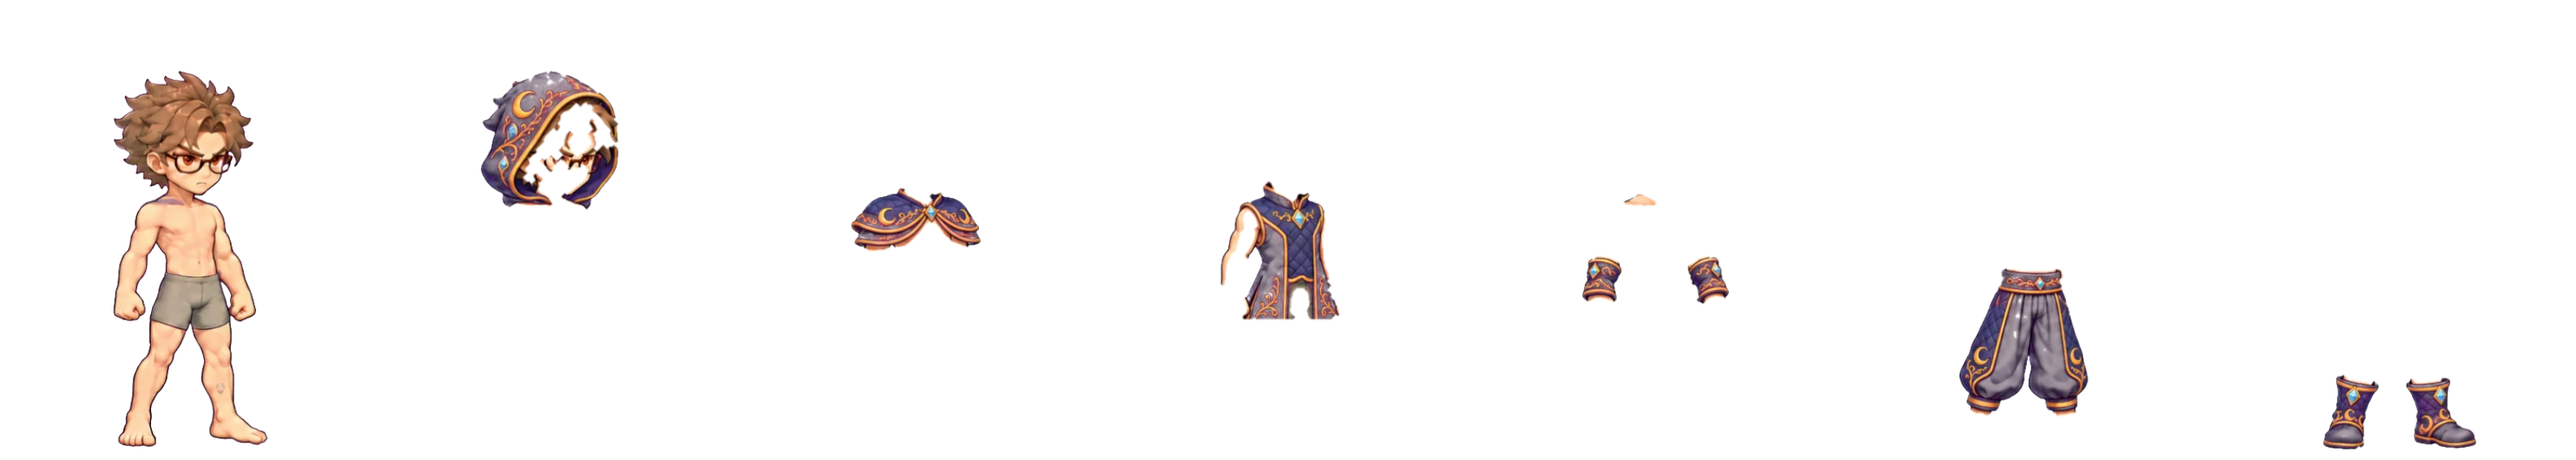
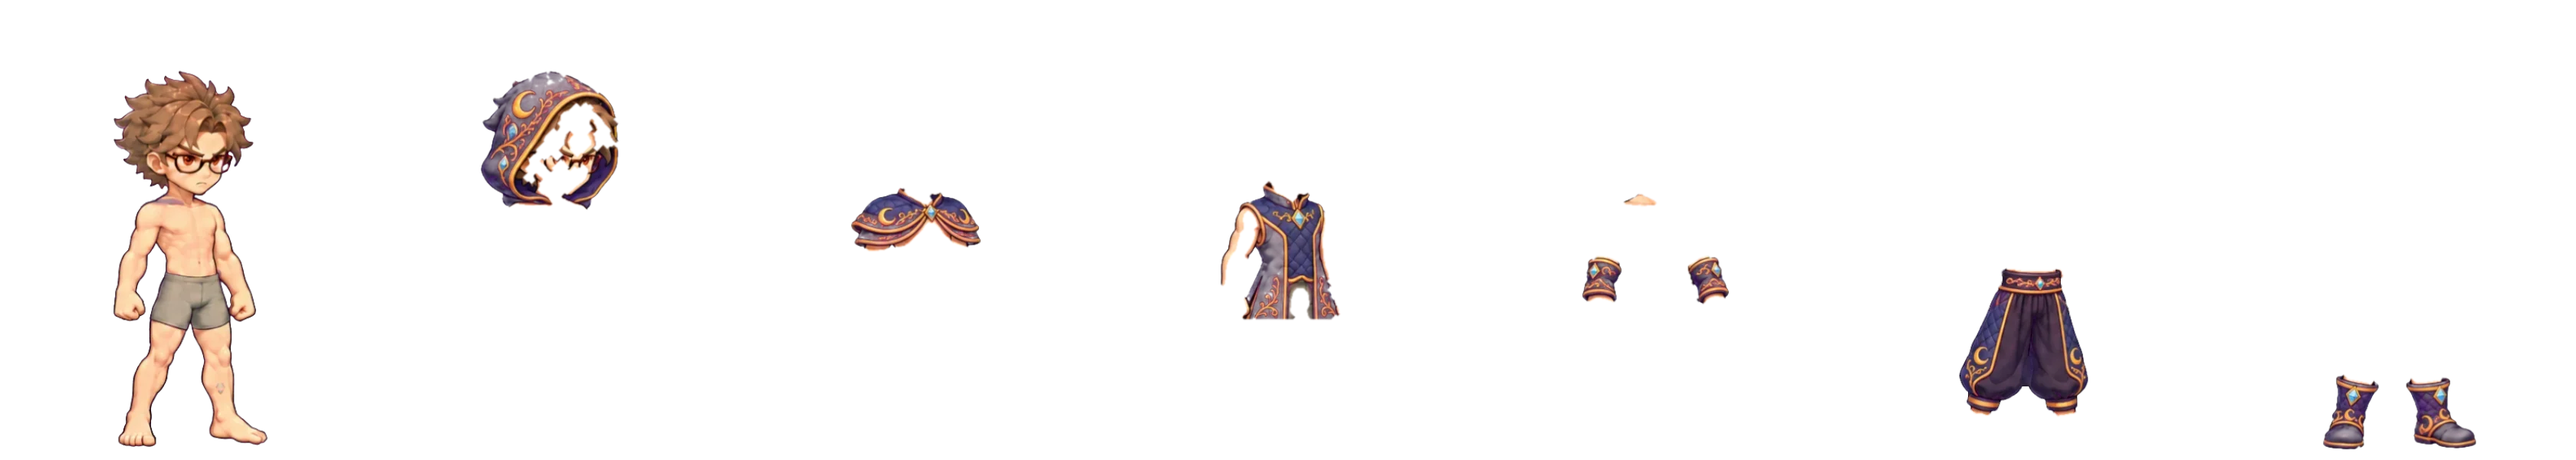
v1.16: paczka 45 – 8 kompletów dla Uczonej (bez broni); poprawione prześwitujące spodnie Arcymaga
Claude-Session: https://claude.ai/code/session_01GEbC5QhUPXkMWE4U6CsBAf

Changed region(s): [[0.75, 0.57, 0.8125, 0.87]]

diff --git a/index.html b/index.html
@@ -398,7 +398,7 @@ body.play .orb{display:block}#orbL{left:-12px}#orbR{right:-12px}
   <div class="row"><button id="close">Zamknij</button><button id="reset">Nowy świat</button></div>
 </div>
 
-<script id="gbd">const GBD={"pm":{"f_athlete":{"bow":["arcymag","cien","krew","lowca","smok","swit","tytan","zywioly"],"halberd":[],"2axe":[],"2dagger":[],"2sword":[],"axe":[],"dagger":[],"none":["arcymag","cien","krew","lowca","smok","swit","tytan","zywioly"],"sd":[],"sword":[]},"f_hunter":{"bow":["arcymag","cien","krew","lowca","smok","swit","tytan","zywioly"],"2dagger":[],"2sword":[],"dagger":[],"none":["arcymag","cien","krew","lowca","smok","swit","tytan","zywioly"],"sd":[],"sword":[]},"f_necro":{"dagger_skull":[],"wand":[],"wand_skull":[],"2dagger":[],"dagger":[],"none":[],"staff":[]},"f_paladin":{"2buzdygan":[],"axe_shield":[],"buzdygan":[],"buzdygan_shield":[],"halberd":["arcymag","cien","krew","lowca","smok","swit","tytan","zywioly"],"mace_book":[],"mace_shield":[],"sword_shield":["arcymag","cien","krew","lowca","smok","swit","tytan","zywioly"],"buzdygan_book":[],"sword_book":[],"none":["arcymag","cien","krew","lowca","smok","swit","tytan","zywioly"]},"f_scholar":{"wand":[],"wand_book":[],"2dagger":[],"dagger":[],"none":[],"staff":[],"dagger_book":[]},"f_strong":{"2buzdygan":[],"axe_shield":[],"buzdygan":[],"buzdygan_shield":[],"halberd":[],"mace_shield":[],"sword_shield":["arcymag","cien","krew","lowca","smok","swit","tytan","zywioly"],"2axe":[],"2mace":[],"2sword":[],"axe":[],"hammer2h":[],"mace":[],"none":["arcymag","cien","krew","lowca","smok","swit","tytan","zywioly"],"sword":[]},"m_athlete":{"bow":["arcymag","cien","krew","lowca","smok","swit","tytan","zywioly"],"halberd":[],"2axe":[],"2dagger":[],"2sword":[],"axe":[],"dagger":[],"none":["arcymag","cien","krew","lowca","smok","swit","tytan","zywioly"],"sd":[],"sword":[]},"m_hunter":{"bow":["arcymag","cien","krew","lowca","smok","swit","tytan","zywioly"],"2dagger":[],"2sword":[],"dagger":[],"none":["arcymag","cien","krew","lowca","smok","swit","tytan","zywioly"],"sd":[],"sword":[]},"m_necro":{"dagger_skull":[],"wand":[],"wand_skull":[],"2dagger":[],"dagger":[],"none":[],"staff":[]},"m_paladin":{"2buzdygan":[],"axe_shield":[],"buzdygan":[],"buzdygan_shield":[],"halberd":[],"mace_book":[],"mace_shield":[],"sword_shield":["arcymag","cien","krew","lowca","smok","swit","tytan","zywioly"],"buzdygan_book":[],"sword_book":[]},"m_scholar":{"wand":[],"wand_book":[],"2dagger":[],"dagger":[],"none":["arcymag","cien","krew","lowca","smok","swit","tytan","zywioly"],"staff":[],"dagger_book":[]},"m_strong":{"2buzdygan":[],"axe_shield":[],"buzdygan":[],"buzdygan_shield":[],"halberd":[],"mace_shield":[],"sword_shield":["arcymag","cien","krew","lowca","smok","swit","tytan","zywioly"],"2axe":[],"2mace":[],"2sword":[],"axe":[],"hammer2h":[],"mace":[],"none":["arcymag","cien","krew","lowca","smok","swit","tytan","zywioly"],"sword":[]}},"wn":{"miecz":[0,0,150,433,0.83,0.48],"sztylet":[152,0,118,325,0.8,0.34],"topor":[272,0,203,431,0.82,0.46],"maczuga":[477,0,173,426,0.82,0.45],"mlot":[652,0,183,448,0.78,0.62],"kostur":[837,0,95,454,0.62,0.8],"luk":[934,0,130,458,0.5,0.55],"tarcza":[1066,0,265,478,0.5,0.4],"rozdzka":[1333,0,105,482,0.8,0.4],"czaszka":[1440,0,278,318,0.55,0.2],"ksiega":[1720,0,276,307,0.5,0.22],"buzdygan":[1998,0,174,441,0.82,0.45],"halabarda":[2174,0,163,452,0.6,0.85]},"lm":{"m_scholar":{"fists":[[166,365],[313,365]],"top":66,"s":1.187},"m_strong":{"fists":[[136,364],[336,363]],"top":66,"s":1.17},"m_athlete":{"fists":[[159,363],[315,363]],"top":66,"s":1.184},"m_hunter":{"fists":[[158,364],[318,363]],"top":66,"s":1.198},"m_necro":{"fists":[[159,365],[323,364]],"top":66,"s":1.206},"m_paladin":{"fists":[[162,362],[319,361]],"top":65,"s":1.184},"f_scholar":{"fists":[[168,363],[318,363]],"top":64,"s":1.212},"f_strong":{"fists":[[149,363],[325,362]],"top":66,"s":1.163},"f_athlete":{"fists":[[166,362],[310,363]],"top":66,"s":1.15},"f_hunter":{"fists":[[159,363],[322,363]],"top":65,"s":1.198},"f_necro":{"fists":[[167,365],[322,364]],"top":66,"s":1.195},"f_paladin":{"fists":[[161,364],[320,363]],"top":64,"s":1.198}},"cls":{"m_scholar":[0,0],"m_strong":[1,0],"m_athlete":[2,0],"m_hunter":[3,0],"m_necro":[4,0],"m_paladin":[5,0],"f_scholar":[0,1],"f_strong":[1,1],"f_athlete":[2,1],"f_hunter":[3,1],"f_necro":[4,1],"f_paladin":[5,1]},"cf":{"m_paladin":["none","sword","mace","2sword","2mace","hammer2h"],"f_paladin":["none","sword","mace","2sword","2mace","hammer2h"],"f_necro":["none","dagger","2dagger","staff"],"m_necro":["none","dagger","2dagger","staff"],"m_hunter":["none","sword","dagger","2sword","2dagger","sd"],"f_hunter":["none","sword","dagger","2sword","2dagger","sd"],"f_athlete":["none","sword","dagger","axe","2sword","2dagger","2axe","sd"],"m_athlete":["none","sword","dagger","axe","2sword","2dagger","2axe","sd"],"m_strong":["none","sword","axe","mace","2sword","2axe","2mace","hammer2h"],"f_strong":["none","sword","axe","mace","2sword","2axe","2mace","hammer2h"],"f_scholar":["none","dagger","2dagger","staff"],"m_scholar":["none","dagger","2dagger","staff"]},"mk":{"m_strong":{"top":59,"feet":581,"neck":162,"cx":214.2,"fists":[[108,362],[305,358]],"seeds":{"helmet":[[214,84,214,148,10],[163,119,265,119,10],[166,148,262,148,6]],"chest":[[204,184,224,184,5],[173,222,246,222,12],[173,311,246,311,4],[124,207,114,300,14],[258,207,286,298,14]],"gloves":[[110,346,108,362,18],[300,343,305,358,18]],"pants":[[151,318,264,318,6],[155,348,260,348,10],[163,377,164,402,10],[252,377,242,402,10],[164,402,121,488,12],[242,402,238,488,12]],"boots":[[0,583,400,583,45]]},"wa":[15,15]},"m_slim":{"top":59,"feet":581,"neck":166,"cx":200.8,"fists":[[125,352],[290,355]],"seeds":{"helmet":[[206,84,206,152,10],[155,119,258,119,10],[158,152,255,152,6]],"chest":[[191,188,211,188,5],[180,226,228,226,12],[180,298,228,298,4],[144,211,133,296,14],[236,211,268,297,14]],"gloves":[[127,338,125,352,18],[285,341,290,355,18]],"pants":[[161,311,253,311,6],[165,336,249,336,10],[173,361,170,391,10],[241,361,236,391,10],[170,391,128,485,12],[236,391,233,485,12]],"boots":[[0,580,400,580,45]]},"wa":[15,15]},"f_strong":{"top":59,"feet":581,"neck":172,"cx":212.9,"fists":[[125,345],[285,345]],"seeds":{"helmet":[[200,84,200,158,10],[152,119,249,119,10],[155,158,246,158,6]],"chest":[[203,194,223,194,5],[195,232,232,232,12],[195,279,232,279,4],[161,217,139,294,14],[228,217,262,294,14]],"gloves":[[129,332,125,345,18],[279,332,285,345,18]],"pants":[[169,292,256,292,6],[173,316,252,316,10],[181,340,170,400,10],[244,340,242,400,10],[170,400,130,488,12],[242,400,240,488,12]],"boots":[[0,583,400,583,45]]},"wa":[15,15]},"f_slim":{"top":59,"feet":581,"neck":169,"cx":212.7,"fists":[[135,345],[280,340]],"seeds":{"helmet":[[202,84,202,155,10],[159,119,244,119,10],[162,155,241,155,6]],"chest":[[203,191,223,191,5],[192,229,232,229,12],[192,284,232,284,4],[165,214,147,293,14],[233,214,261,290,14]],"gloves":[[138,332,135,345,18],[275,327,280,340,18]],"pants":[[168,295,253,295,6],[172,318,249,318,10],[180,341,172,391,10],[241,341,240,391,10],[172,391,130,485,12],[240,391,241,485,12]],"boots":[[0,580,400,580,45]]},"wa":[15,15]}},"heads":{"f_athlete":{"x":0,"w":190,"h":182,"neck":156,"ax":126.2,"bh":337,"dx":0,"dy":0,"ds":0},"f_hunter":{"x":191,"w":165,"h":196,"neck":136,"ax":103.9,"bh":344,"dx":0,"dy":0,"ds":0},"f_necro":{"x":357,"w":183,"h":233,"neck":138,"ax":115.3,"bh":343,"dx":0,"dy":0,"ds":0},"f_paladin":{"x":541,"w":154,"h":158,"neck":143,"ax":100.4,"bh":338,"dx":0,"dy":0,"ds":0},"f_scholar":{"x":696,"w":163,"h":230,"neck":137,"ax":102.2,"bh":345,"dx":0,"dy":0,"ds":0},"f_strong":{"x":860,"w":148,"h":138,"neck":138,"ax":78.7,"bh":347,"dx":0,"dy":0,"ds":0},"m_athlete":{"x":1009,"w":155,"h":144,"neck":144,"ax":73.3,"bh":331,"dx":0,"dy":0,"ds":0},"m_hunter":{"x":1165,"w":172,"h":157,"neck":157,"ax":86.7,"bh":321,"dx":0,"dy":0,"ds":0},"m_necro":{"x":1338,"w":167,"h":161,"neck":143,"ax":95.5,"bh":336,"dx":0,"dy":0,"ds":0},"m_paladin":{"x":1506,"w":136,"h":127,"neck":127,"ax":74.0,"bh":352,"dx":0,"dy":0,"ds":0},"m_scholar":{"x":1643,"w":170,"h":157,"neck":157,"ax":75.4,"bh":312,"dx":0,"dy":0,"ds":0},"m_strong":{"x":1814,"w":142,"h":145,"neck":121,"ax":78.5,"bh":359,"dx":0,"dy":0,"ds":0}},"wp":{"axe_archmage":{"x":0,"y":0,"w":210,"h":420},"axe_base":{"x":211,"y":0,"w":154,"h":420},"axe_bloodknight":{"x":366,"y":0,"w":223,"h":420},"axe_dawn":{"x":590,"y":0,"w":218,"h":420},"axe_elements":{"x":809,"y":0,"w":202,"h":420},"axe_legend":{"x":1012,"y":0,"w":253,"h":420},"axe_shadow":{"x":1266,"y":0,"w":189,"h":420},"axe_titan":{"x":1456,"y":0,"w":202,"h":420},"axe_wolf":{"x":1659,"y":0,"w":210,"h":420},"dagger_archmage":{"x":1870,"y":0,"w":143,"h":420},"dagger_base":{"x":2014,"y":0,"w":106,"h":420},"dagger_bloodknight":{"x":2121,"y":0,"w":144,"h":420},"dagger_dawn":{"x":0,"y":421,"w":136,"h":420},"dagger_elements":{"x":137,"y":421,"w":149,"h":420},"dagger_legend":{"x":287,"y":421,"w":129,"h":420},"dagger_shadow":{"x":417,"y":421,"w":141,"h":413},"dagger_titan":{"x":559,"y":421,"w":128,"h":420},"dagger_wolf":{"x":688,"y":421,"w":131,"h":419},"hammer2h_archmage":{"x":820,"y":421,"w":282,"h":420},"hammer2h_base":{"x":1103,"y":421,"w":180,"h":420},"hammer2h_bloodknight":{"x":1284,"y":421,"w":229,"h":420},"hammer2h_dawn":{"x":1514,"y":421,"w":240,"h":420},"hammer2h_elements":{"x":1755,"y":421,"w":229,"h":420},"hammer2h_legend":{"x":1985,"y":421,"w":229,"h":420},"hammer2h_shadow":{"x":0,"y":842,"w":214,"h":420},"hammer2h_titan":{"x":215,"y":842,"w":230,"h":420},"hammer2h_wolf":{"x":446,"y":842,"w":231,"h":420},"mace_archmage":{"x":678,"y":842,"w":200,"h":420},"mace_base":{"x":879,"y":842,"w":148,"h":420},"mace_bloodknight":{"x":1028,"y":842,"w":183,"h":420},"mace_dawn":{"x":1212,"y":842,"w":198,"h":420},"mace_elements":{"x":1411,"y":842,"w":205,"h":420},"mace_legend":{"x":1617,"y":842,"w":194,"h":420},"mace_shadow":{"x":1812,"y":842,"w":173,"h":420},"mace_titan":{"x":1986,"y":842,"w":165,"h":420},"mace_wolf":{"x":2152,"y":842,"w":188,"h":420},"staff_archmage":{"x":0,"y":1263,"w":139,"h":420},"staff_base":{"x":140,"y":1263,"w":118,"h":420},"staff_bloodknight":{"x":259,"y":1263,"w":136,"h":420},"staff_dawn":{"x":396,"y":1263,"w":168,"h":420},"staff_elements":{"x":565,"y":1263,"w":152,"h":420},"staff_legend":{"x":718,"y":1263,"w":172,"h":420},"staff_shadow":{"x":891,"y":1263,"w":149,"h":420},"staff_titan":{"x":1041,"y":1263,"w":122,"h":420},"staff_wolf":{"x":1164,"y":1263,"w":121,"h":420},"sword_archmage":{"x":1286,"y":1263,"w":172,"h":420},"sword_base":{"x":1459,"y":1263,"w":113,"h":420},"sword_bloodknight":{"x":1573,"y":1263,"w":169,"h":420},"sword_dawn":{"x":1743,"y":1263,"w":158,"h":420},"sword_elements":{"x":1902,"y":1263,"w":163,"h":420},"sword_legend":{"x":2066,"y":1263,"w":171,"h":420},"sword_shadow":{"x":2238,"y":1263,"w":153,"h":420},"sword_titan":{"x":0,"y":1684,"w":141,"h":420},"sword_wolf":{"x":142,"y":1684,"w":172,"h":420}},"wpar":{"sword":[0.82,0.65,0,0,0],"dagger":[0.8,0.62,0,0,0],"axe":[0.82,0.56,0,0,0],"mace":[0.82,0.56,0,0,0],"hammer2h":[0.72,0.68,-5,0,0],"staff":[0.55,0.95,-9,0,0]}};</script>
+<script id="gbd">const GBD={"pm":{"f_athlete":{"bow":["arcymag","cien","krew","lowca","smok","swit","tytan","zywioly"],"halberd":[],"2axe":[],"2dagger":[],"2sword":[],"axe":[],"dagger":[],"none":["arcymag","cien","krew","lowca","smok","swit","tytan","zywioly"],"sd":[],"sword":[]},"f_hunter":{"bow":["arcymag","cien","krew","lowca","smok","swit","tytan","zywioly"],"2dagger":[],"2sword":[],"dagger":[],"none":["arcymag","cien","krew","lowca","smok","swit","tytan","zywioly"],"sd":[],"sword":[]},"f_necro":{"dagger_skull":[],"wand":[],"wand_skull":[],"2dagger":[],"dagger":[],"none":[],"staff":[]},"f_paladin":{"2buzdygan":[],"axe_shield":[],"buzdygan":[],"buzdygan_shield":[],"halberd":["arcymag","cien","krew","lowca","smok","swit","tytan","zywioly"],"mace_book":[],"mace_shield":[],"sword_shield":["arcymag","cien","krew","lowca","smok","swit","tytan","zywioly"],"buzdygan_book":[],"sword_book":[],"none":["arcymag","cien","krew","lowca","smok","swit","tytan","zywioly"]},"f_scholar":{"wand":[],"wand_book":[],"2dagger":[],"dagger":[],"none":["arcymag","cien","krew","lowca","smok","swit","tytan","zywioly"],"staff":[],"dagger_book":[]},"f_strong":{"2buzdygan":[],"axe_shield":[],"buzdygan":[],"buzdygan_shield":[],"halberd":[],"mace_shield":[],"sword_shield":["arcymag","cien","krew","lowca","smok","swit","tytan","zywioly"],"2axe":[],"2mace":[],"2sword":[],"axe":[],"hammer2h":[],"mace":[],"none":["arcymag","cien","krew","lowca","smok","swit","tytan","zywioly"],"sword":[]},"m_athlete":{"bow":["arcymag","cien","krew","lowca","smok","swit","tytan","zywioly"],"halberd":[],"2axe":[],"2dagger":[],"2sword":[],"axe":[],"dagger":[],"none":["arcymag","cien","krew","lowca","smok","swit","tytan","zywioly"],"sd":[],"sword":[]},"m_hunter":{"bow":["arcymag","cien","krew","lowca","smok","swit","tytan","zywioly"],"2dagger":[],"2sword":[],"dagger":[],"none":["arcymag","cien","krew","lowca","smok","swit","tytan","zywioly"],"sd":[],"sword":[]},"m_necro":{"dagger_skull":[],"wand":[],"wand_skull":[],"2dagger":[],"dagger":[],"none":[],"staff":[]},"m_paladin":{"2buzdygan":[],"axe_shield":[],"buzdygan":[],"buzdygan_shield":[],"halberd":[],"mace_book":[],"mace_shield":[],"sword_shield":["arcymag","cien","krew","lowca","smok","swit","tytan","zywioly"],"buzdygan_book":[],"sword_book":[]},"m_scholar":{"wand":[],"wand_book":[],"2dagger":[],"dagger":[],"none":["arcymag","cien","krew","lowca","smok","swit","tytan","zywioly"],"staff":[],"dagger_book":[]},"m_strong":{"2buzdygan":[],"axe_shield":[],"buzdygan":[],"buzdygan_shield":[],"halberd":[],"mace_shield":[],"sword_shield":["arcymag","cien","krew","lowca","smok","swit","tytan","zywioly"],"2axe":[],"2mace":[],"2sword":[],"axe":[],"hammer2h":[],"mace":[],"none":["arcymag","cien","krew","lowca","smok","swit","tytan","zywioly"],"sword":[]}},"wn":{"miecz":[0,0,150,433,0.83,0.48],"sztylet":[152,0,118,325,0.8,0.34],"topor":[272,0,203,431,0.82,0.46],"maczuga":[477,0,173,426,0.82,0.45],"mlot":[652,0,183,448,0.78,0.62],"kostur":[837,0,95,454,0.62,0.8],"luk":[934,0,130,458,0.5,0.55],"tarcza":[1066,0,265,478,0.5,0.4],"rozdzka":[1333,0,105,482,0.8,0.4],"czaszka":[1440,0,278,318,0.55,0.2],"ksiega":[1720,0,276,307,0.5,0.22],"buzdygan":[1998,0,174,441,0.82,0.45],"halabarda":[2174,0,163,452,0.6,0.85]},"lm":{"m_scholar":{"fists":[[166,365],[313,365]],"top":66,"s":1.187},"m_strong":{"fists":[[136,364],[336,363]],"top":66,"s":1.17},"m_athlete":{"fists":[[159,363],[315,363]],"top":66,"s":1.184},"m_hunter":{"fists":[[158,364],[318,363]],"top":66,"s":1.198},"m_necro":{"fists":[[159,365],[323,364]],"top":66,"s":1.206},"m_paladin":{"fists":[[162,362],[319,361]],"top":65,"s":1.184},"f_scholar":{"fists":[[168,363],[318,363]],"top":64,"s":1.212},"f_strong":{"fists":[[149,363],[325,362]],"top":66,"s":1.163},"f_athlete":{"fists":[[166,362],[310,363]],"top":66,"s":1.15},"f_hunter":{"fists":[[159,363],[322,363]],"top":65,"s":1.198},"f_necro":{"fists":[[167,365],[322,364]],"top":66,"s":1.195},"f_paladin":{"fists":[[161,364],[320,363]],"top":64,"s":1.198}},"cls":{"m_scholar":[0,0],"m_strong":[1,0],"m_athlete":[2,0],"m_hunter":[3,0],"m_necro":[4,0],"m_paladin":[5,0],"f_scholar":[0,1],"f_strong":[1,1],"f_athlete":[2,1],"f_hunter":[3,1],"f_necro":[4,1],"f_paladin":[5,1]},"cf":{"m_paladin":["none","sword","mace","2sword","2mace","hammer2h"],"f_paladin":["none","sword","mace","2sword","2mace","hammer2h"],"f_necro":["none","dagger","2dagger","staff"],"m_necro":["none","dagger","2dagger","staff"],"m_hunter":["none","sword","dagger","2sword","2dagger","sd"],"f_hunter":["none","sword","dagger","2sword","2dagger","sd"],"f_athlete":["none","sword","dagger","axe","2sword","2dagger","2axe","sd"],"m_athlete":["none","sword","dagger","axe","2sword","2dagger","2axe","sd"],"m_strong":["none","sword","axe","mace","2sword","2axe","2mace","hammer2h"],"f_strong":["none","sword","axe","mace","2sword","2axe","2mace","hammer2h"],"f_scholar":["none","dagger","2dagger","staff"],"m_scholar":["none","dagger","2dagger","staff"]},"mk":{"m_strong":{"top":59,"feet":581,"neck":162,"cx":214.2,"fists":[[108,362],[305,358]],"seeds":{"helmet":[[214,84,214,148,10],[163,119,265,119,10],[166,148,262,148,6]],"chest":[[204,184,224,184,5],[173,222,246,222,12],[173,311,246,311,4],[124,207,114,300,14],[258,207,286,298,14]],"gloves":[[110,346,108,362,18],[300,343,305,358,18]],"pants":[[151,318,264,318,6],[155,348,260,348,10],[163,377,164,402,10],[252,377,242,402,10],[164,402,121,488,12],[242,402,238,488,12]],"boots":[[0,583,400,583,45]]},"wa":[15,15]},"m_slim":{"top":59,"feet":581,"neck":166,"cx":200.8,"fists":[[125,352],[290,355]],"seeds":{"helmet":[[206,84,206,152,10],[155,119,258,119,10],[158,152,255,152,6]],"chest":[[191,188,211,188,5],[180,226,228,226,12],[180,298,228,298,4],[144,211,133,296,14],[236,211,268,297,14]],"gloves":[[127,338,125,352,18],[285,341,290,355,18]],"pants":[[161,311,253,311,6],[165,336,249,336,10],[173,361,170,391,10],[241,361,236,391,10],[170,391,128,485,12],[236,391,233,485,12]],"boots":[[0,580,400,580,45]]},"wa":[15,15]},"f_strong":{"top":59,"feet":581,"neck":172,"cx":212.9,"fists":[[125,345],[285,345]],"seeds":{"helmet":[[200,84,200,158,10],[152,119,249,119,10],[155,158,246,158,6]],"chest":[[203,194,223,194,5],[195,232,232,232,12],[195,279,232,279,4],[161,217,139,294,14],[228,217,262,294,14]],"gloves":[[129,332,125,345,18],[279,332,285,345,18]],"pants":[[169,292,256,292,6],[173,316,252,316,10],[181,340,170,400,10],[244,340,242,400,10],[170,400,130,488,12],[242,400,240,488,12]],"boots":[[0,583,400,583,45]]},"wa":[15,15]},"f_slim":{"top":59,"feet":581,"neck":169,"cx":212.7,"fists":[[135,345],[280,340]],"seeds":{"helmet":[[202,84,202,155,10],[159,119,244,119,10],[162,155,241,155,6]],"chest":[[203,191,223,191,5],[192,229,232,229,12],[192,284,232,284,4],[165,214,147,293,14],[233,214,261,290,14]],"gloves":[[138,332,135,345,18],[275,327,280,340,18]],"pants":[[168,295,253,295,6],[172,318,249,318,10],[180,341,172,391,10],[241,341,240,391,10],[172,391,130,485,12],[240,391,241,485,12]],"boots":[[0,580,400,580,45]]},"wa":[15,15]}},"heads":{"f_athlete":{"x":0,"w":190,"h":182,"neck":156,"ax":126.2,"bh":337,"dx":0,"dy":0,"ds":0},"f_hunter":{"x":191,"w":165,"h":196,"neck":136,"ax":103.9,"bh":344,"dx":0,"dy":0,"ds":0},"f_necro":{"x":357,"w":183,"h":233,"neck":138,"ax":115.3,"bh":343,"dx":0,"dy":0,"ds":0},"f_paladin":{"x":541,"w":154,"h":158,"neck":143,"ax":100.4,"bh":338,"dx":0,"dy":0,"ds":0},"f_scholar":{"x":696,"w":163,"h":230,"neck":137,"ax":102.2,"bh":345,"dx":0,"dy":0,"ds":0},"f_strong":{"x":860,"w":148,"h":138,"neck":138,"ax":78.7,"bh":347,"dx":0,"dy":0,"ds":0},"m_athlete":{"x":1009,"w":155,"h":144,"neck":144,"ax":73.3,"bh":331,"dx":0,"dy":0,"ds":0},"m_hunter":{"x":1165,"w":172,"h":157,"neck":157,"ax":86.7,"bh":321,"dx":0,"dy":0,"ds":0},"m_necro":{"x":1338,"w":167,"h":161,"neck":143,"ax":95.5,"bh":336,"dx":0,"dy":0,"ds":0},"m_paladin":{"x":1506,"w":136,"h":127,"neck":127,"ax":74.0,"bh":352,"dx":0,"dy":0,"ds":0},"m_scholar":{"x":1643,"w":170,"h":157,"neck":157,"ax":75.4,"bh":312,"dx":0,"dy":0,"ds":0},"m_strong":{"x":1814,"w":142,"h":145,"neck":121,"ax":78.5,"bh":359,"dx":0,"dy":0,"ds":0}},"wp":{"axe_archmage":{"x":0,"y":0,"w":210,"h":420},"axe_base":{"x":211,"y":0,"w":154,"h":420},"axe_bloodknight":{"x":366,"y":0,"w":223,"h":420},"axe_dawn":{"x":590,"y":0,"w":218,"h":420},"axe_elements":{"x":809,"y":0,"w":202,"h":420},"axe_legend":{"x":1012,"y":0,"w":253,"h":420},"axe_shadow":{"x":1266,"y":0,"w":189,"h":420},"axe_titan":{"x":1456,"y":0,"w":202,"h":420},"axe_wolf":{"x":1659,"y":0,"w":210,"h":420},"dagger_archmage":{"x":1870,"y":0,"w":143,"h":420},"dagger_base":{"x":2014,"y":0,"w":106,"h":420},"dagger_bloodknight":{"x":2121,"y":0,"w":144,"h":420},"dagger_dawn":{"x":0,"y":421,"w":136,"h":420},"dagger_elements":{"x":137,"y":421,"w":149,"h":420},"dagger_legend":{"x":287,"y":421,"w":129,"h":420},"dagger_shadow":{"x":417,"y":421,"w":141,"h":413},"dagger_titan":{"x":559,"y":421,"w":128,"h":420},"dagger_wolf":{"x":688,"y":421,"w":131,"h":419},"hammer2h_archmage":{"x":820,"y":421,"w":282,"h":420},"hammer2h_base":{"x":1103,"y":421,"w":180,"h":420},"hammer2h_bloodknight":{"x":1284,"y":421,"w":229,"h":420},"hammer2h_dawn":{"x":1514,"y":421,"w":240,"h":420},"hammer2h_elements":{"x":1755,"y":421,"w":229,"h":420},"hammer2h_legend":{"x":1985,"y":421,"w":229,"h":420},"hammer2h_shadow":{"x":0,"y":842,"w":214,"h":420},"hammer2h_titan":{"x":215,"y":842,"w":230,"h":420},"hammer2h_wolf":{"x":446,"y":842,"w":231,"h":420},"mace_archmage":{"x":678,"y":842,"w":200,"h":420},"mace_base":{"x":879,"y":842,"w":148,"h":420},"mace_bloodknight":{"x":1028,"y":842,"w":183,"h":420},"mace_dawn":{"x":1212,"y":842,"w":198,"h":420},"mace_elements":{"x":1411,"y":842,"w":205,"h":420},"mace_legend":{"x":1617,"y":842,"w":194,"h":420},"mace_shadow":{"x":1812,"y":842,"w":173,"h":420},"mace_titan":{"x":1986,"y":842,"w":165,"h":420},"mace_wolf":{"x":2152,"y":842,"w":188,"h":420},"staff_archmage":{"x":0,"y":1263,"w":139,"h":420},"staff_base":{"x":140,"y":1263,"w":118,"h":420},"staff_bloodknight":{"x":259,"y":1263,"w":136,"h":420},"staff_dawn":{"x":396,"y":1263,"w":168,"h":420},"staff_elements":{"x":565,"y":1263,"w":152,"h":420},"staff_legend":{"x":718,"y":1263,"w":172,"h":420},"staff_shadow":{"x":891,"y":1263,"w":149,"h":420},"staff_titan":{"x":1041,"y":1263,"w":122,"h":420},"staff_wolf":{"x":1164,"y":1263,"w":121,"h":420},"sword_archmage":{"x":1286,"y":1263,"w":172,"h":420},"sword_base":{"x":1459,"y":1263,"w":113,"h":420},"sword_bloodknight":{"x":1573,"y":1263,"w":169,"h":420},"sword_dawn":{"x":1743,"y":1263,"w":158,"h":420},"sword_elements":{"x":1902,"y":1263,"w":163,"h":420},"sword_legend":{"x":2066,"y":1263,"w":171,"h":420},"sword_shadow":{"x":2238,"y":1263,"w":153,"h":420},"sword_titan":{"x":0,"y":1684,"w":141,"h":420},"sword_wolf":{"x":142,"y":1684,"w":172,"h":420}},"wpar":{"sword":[0.82,0.65,0,0,0],"dagger":[0.8,0.62,0,0,0],"axe":[0.82,0.56,0,0,0],"mace":[0.82,0.56,0,0,0],"hammer2h":[0.72,0.68,-5,0,0],"staff":[0.55,0.95,-9,0,0]}};</script>
 <script>
 // ---------- konfiguracja ----------
 const T={
@@ -1155,7 +1155,7 @@ const actOf=m=>ACT[Math.min(m==null?(S.map||0):m,ACT.length-1)];
 const Dref=e=>12+ELX.dk*Math.pow(e,2.15),HPREF=l=>40+9.7*Math.pow(l,1.4),capPct=x=>x<=100?x:100+(x-100)*.5;
 const elAt=(x,y,m)=>{const a=actOf(m);return Math.max(1,Math.round(a.elLo+(a.elHi-a.elLo)*Math.min(1,Math.hypot(x,y)/ELX.zone)))};
 const goldFight=(el,n,m)=>(3+.8*el)*Math.pow(n,.8)*actOf(m).gold;
-const VER='1.15';
+const VER='1.16';
 const SK=[{n:'Cios',res:'sta',cost:15,cd:4,dm:3},{n:'Kula ognia',res:'mana',cost:20,cd:6,dm:5},{n:'Leczenie',res:'mana',cost:25,cd:10,heal:35}];
 const CL={uczony:[3,4,10,3,'Uczony','Dużo many i inteligencji, mocna magia, mało HP.'],silacz:[10,4,3,8,'Siłacz','Dużo HP i siły, mocne ciosy, mało many.'],atleta:[5,9,4,5,'Atleta','Dużo staminy i zręczności, uniki, średnie HP.'],łowca:[4,10,3,5,'Łowca','Strzały, trucizny i zwierzęcy towarzysze. Dużo staminy i zręczności.','atleta'],nekromanta:[2,3,10,5,'Nekromanta','Przywołuje sługi, rzuca klątwy i wysysa życie wrogów.','uczony'],paladyn:[8,3,4,9,'Paladyn','Pancerz, leczenie i wytrzymałość. Najtwardsza klasa.','silacz']};
 const LB={sil:'Sił',zre:'Zręcz',int:'Int',wit:'Wit',hp:'HP',def:'Pancerz',ls:'% kradzieży życia',crit:'% krytyka',dod:'% uniku',atkp:'% ataku',spp:'% mocy zaklęć',hpp:'% HP',manap:'% many',stap:'% staminy',cdr:'% szybsze odnowienie'},RN=['Zwykły','Magiczny','Rzadki','Legendarny'],RC=['#cfcfcf','#6aa8ff','#f0d04a','#ff9a3c'];
